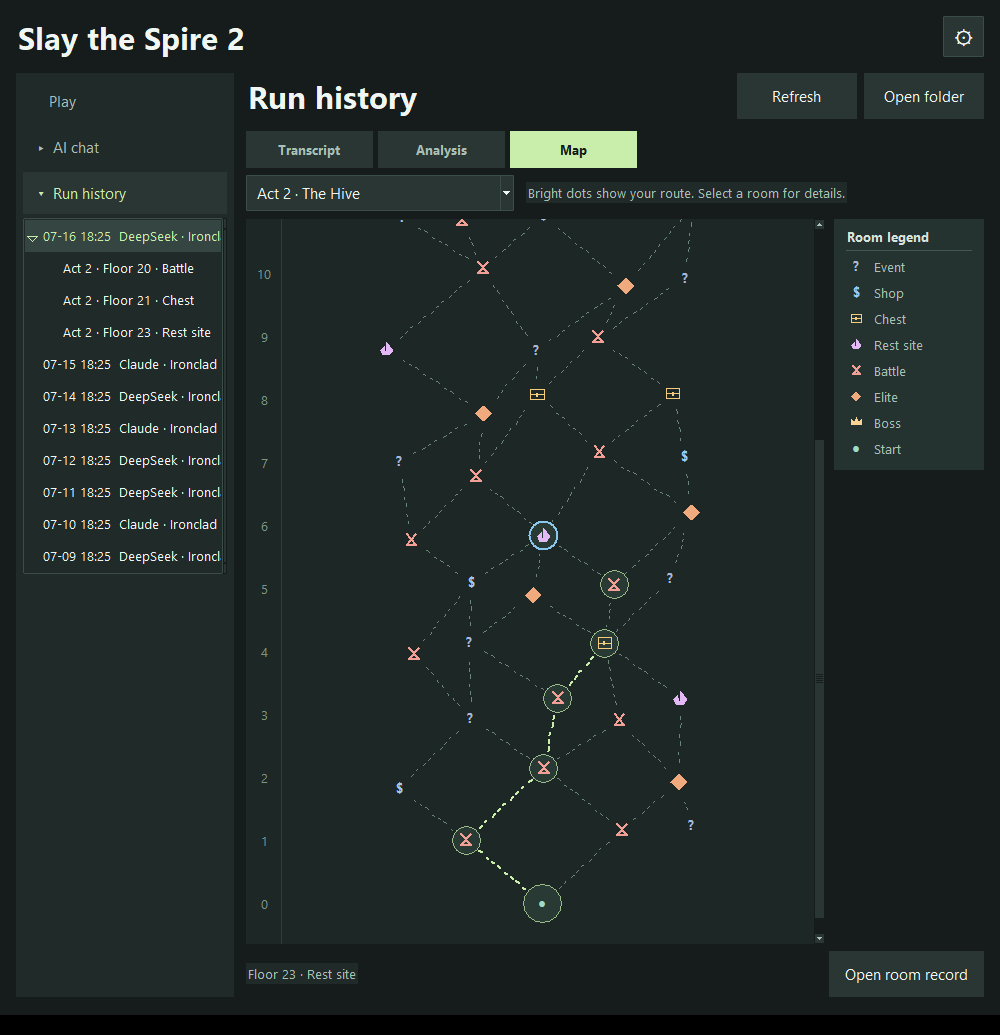
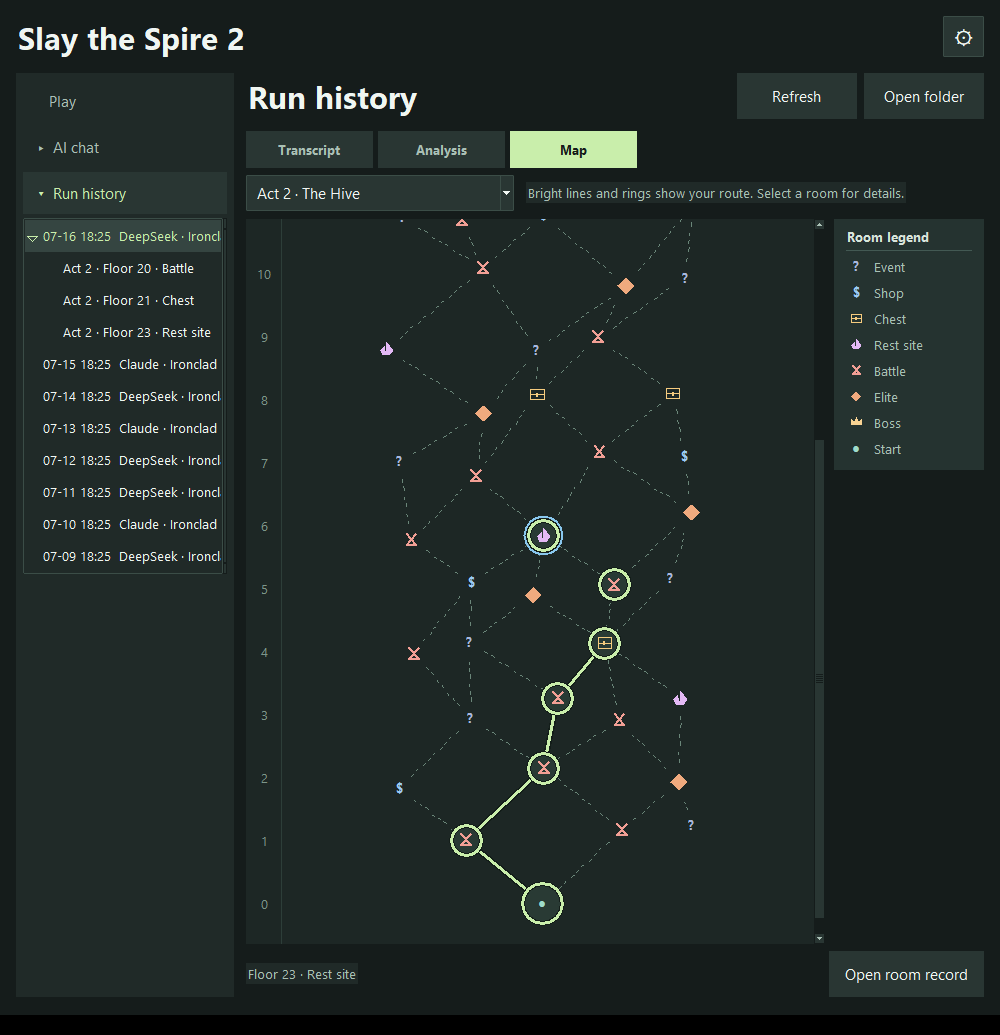
Emphasize traveled paths and ring visited rooms

diff --git a/python/run_map.py b/python/run_map.py
@@ -14,6 +14,8 @@ COLORS = {"battle": "#F29F95", "elite": "#F0AA7E", "boss": "#F8D393", "chest": "
 LEGEND_ROOMS = ("event", "shop", "chest", "rest", "battle", "elite", "boss", "start")
 MAP_BACKGROUND = "#1D2725"
 NODE_SIZES = {"elite": 25, "boss": 48, "start": 30}
+VISITED = "#C9EEAB"
+ROUTE_OUTLINE = "#131D19"
 
 
 class Chapter(NamedTuple):
@@ -304,12 +306,17 @@ class RunMap:
             x, y = positions[point]
             tag = f"room_{point[0]}_{point[1]}"
             edge = NODE_SIZES.get(room, 20)
-            radius = edge / 2 + 4
+            radius = edge / 2 + 5
             selected = self.selected == point
-            ring = "#89C7EE" if current == point else "#F8D393" if selected else "#9ABC8B" if reached else ""
-            view.create_oval(x-radius, y-radius, x+radius, y+radius, outline=ring,
-                             fill="#293A34" if reached or selected else MAP_BACKGROUND,
-                             width=2 if current == point or selected else 1, tags=tag)
+            circle = x-radius, y-radius, x+radius, y+radius
+            view.create_oval(*circle, outline=ROUTE_OUTLINE if reached else "",
+                             fill="#293A34" if reached or selected else MAP_BACKGROUND, width=5, tags=tag)
+            if reached:
+                view.create_oval(*circle, outline=VISITED, width=2.5, tags=(tag, "visited_room"))
+            if current == point or selected:
+                border = radius + 4 if reached else radius
+                view.create_oval(x-border, y-border, x+border, y+border, width=2,
+                                 outline="#89C7EE" if current == point else "#F8D393", tags=tag)
             self.icon(room, x, y, tag, edge=edge, detail=chapter.special_art.get(point))
             view.tag_bind(tag, "<Button-1>", lambda _event, point=point: self.select_node(point))
             view.tag_bind(tag, "<Enter>", lambda _event: view.configure(cursor="hand2"))
@@ -332,10 +339,14 @@ class RunMap:
         if first >= last:
             return
         ux, uy = dx / length, dy / length
+        if reached:
+            points = x + ux * first, y + uy * first, x + ux * last, y + uy * last
+            self.canvas.create_line(*points, fill=ROUTE_OUTLINE, width=6, capstyle="round")
+            self.canvas.create_line(*points, fill=VISITED, width=3, capstyle="round", tags="route")
+            return
         count = max(1, round((last - first) / 8))
         spacing = (last - first) / count
         seed = left[0] * 17 + left[1] * 5 + right[0] * 13 + right[1] * 3
-        color = "#C9EEAB" if reached else "#6A8679"
         for index in range(count):
             phase = (seed + index * 7) % 11
             start = first + index * spacing + spacing * (.15 + phase / 55)
@@ -343,8 +354,7 @@ class RunMap:
             offset = (phase - 5) * .17
             self.canvas.create_line(x + ux * start - uy * offset, y + uy * start + ux * offset,
                                     x + ux * end - uy * offset, y + uy * end + ux * offset,
-                                    fill=color, width=2 if reached else 1, capstyle="round",
-                                    tags="route" if reached else "path")
+                                    fill="#6A8679", width=1, capstyle="round", tags="path")
 
     def draw_legend(self, _event=None):
         view = self.legend

diff --git a/docs/desktop-launcher.md b/docs/desktop-launcher.md
@@ -12,7 +12,7 @@ The Fool is selectable for game builds that include that character. Mega Crit in
 - In **AI play**, select a persona or open **Persona panel** to choose its provider, model, game character, ascension, and speaking style. Choose a 20-step trial to check provider setup and usage. If prompted to install the provider's API client, let installation finish, then start again.
 - Turn on commentary to let the model add optional comments to its action responses. **AI chat** shows these comments as they arrive. Changing how a persona speaks applies on the next decision. Changing its model or game settings applies on the next run.
 - **Run history** opens the transcript and analysis for each run. Runs are grouped by floor and encounter in the local `STS2 Runs/` directory. The win-rate estimate uses earlier completed runs with the same model, character, and ascension that reached the current stage. Matching sample counts appear beside the estimate.
-- **Map** shows each archived act with dashed room connections, a highlighted route, and a room legend. Select a room and choose **Open room record** to read its transcript. Older archives can show visited rooms only. **Analysis** shows the latest character state and uses icons from the local Steam game for HP, gold, block, potions, and combat energy when those values have been recorded. Use **Character wiki** for the character reference and **About** for credits.
+- **Map** shows each archived act with dashed branches, solid bright lines for the traveled route, and rings around visited rooms. Select a room and choose **Open room record** to read its transcript. Older archives can show visited rooms only. **Analysis** shows the latest character state and uses icons from the local Steam game for HP, gold, block, potions, and combat energy when those values have been recorded. Use **Character wiki** for the character reference and **About** for credits.
 - Expand **Deck** and **Relics** below the character in **Analysis** to see the latest inventory. Deck badges reflect pool, type, and rarity. Available [Huiji Wiki badges](https://sts2.huijiwiki.com/wiki/%E5%8D%A1%E7%89%8C%E5%AF%BC%E8%88%AA) are cached as you open a deck. Offline decks can still use the built-in badges.
 - **Save folder** in the gear menu finds a local or Steam save folder and accepts a custom path. Continuing a native `.save` can update it. Open a copy in a separate folder to keep a checkpoint.
 
@@ -30,7 +30,7 @@ The launcher sends current game state to the selected provider when requesting a
 - 在 **AI 游玩** 中选择人物。人物面板可配置模型、游戏角色、进阶、试跑和发言语言。可以先用 20 步试跑确认服务商设置和用量。首次使用若提示安装 API 客户端，等待完成后再开局。
 - 开启表达后，模型可自行决定是否发言，内容会出现在左栏的 **AI 对话**。发言设置在下一次决策生效，模型或游戏设置在下一次开局生效。
 - **对局记录** 按楼层和房间保存到本地 `STS2 Runs/`。分析页用同模型、角色和进阶的历史完赛局在相应进度上的结果来估算，并显示样本数。
-- **地图** 可切换章节，虚线显示房间分岔，高亮显示已走路线。选中房间后可打开对应记录。较早的归档可能只保存了到访房间。**分析** 用本机 Steam 图标标注已记录的血量、金币、格挡、药水和战斗能量。角色卡带有 Wiki 入口，图像和项目来源见齿轮菜单里的 **关于**。
+- **地图** 可切换章节，虚线显示房间分岔，亮实线标出走过的路，圆圈标出已到访房间。选中房间后可打开对应记录。较早的归档可能只保存了到访房间。**分析** 用本机 Steam 图标标注已记录的血量、金币、格挡、药水和战斗能量。角色卡带有 Wiki 入口，图像和项目来源见齿轮菜单里的 **关于**。
 - 在 **分析** 的角色卡下方展开 **牌组** 和 **遗物**，即可查看最近记录的清单和数量。牌组小图按牌池、类型和稀有度区分，展开时获取并缓存可用的[灰机 Wiki 小图](https://sts2.huijiwiki.com/wiki/%E5%8D%A1%E7%89%8C%E5%AF%BC%E8%88%AA)。离线时仍可使用内置小图。
 - 齿轮里的 **存档目录** 会自动查找项目或 Steam 存档目录，也可手动更换。继续原生 `.save` 时，游戏可能写回该文件。需要保留原进度时，可从单独目录打开副本。
 

diff --git a/README.md b/README.md
@@ -21,7 +21,7 @@ The ZIP includes Python and .NET. Manual play needs no API key. For AI play, sav
 - **Personas and languages.** Save a model, speaking style, and output language per persona. The interface and AI commentary each offer 17 languages and can be set independently.
 - **Local saves.** Detect or set a save folder from the gear menu, then select a save on the launch page.
 - **AI chat and run history.** Expand either view from the sidebar. Each run has its own archive, with separate folders for encounters, chests, rest sites, and other rooms.
-- **Run maps.** Switch between runs and acts. The scrollable map follows the engine's room connections, with dashed branches, a highlighted route, and a room legend. Select a visited room to open its record.
+- **Run maps.** Switch between runs and acts. The scrollable map follows the engine's room connections. Bold lines trace the traveled route and bright rings mark visited rooms. Select a visited room to open its record.
 - **Game icons.** Room, character, and status icons are read from your Steam install. Deck badges vary by card pool, rarity, and type. Opening the deck fetches and caches available [Huiji Wiki card badges](https://sts2.huijiwiki.com/wiki/%E5%8D%A1%E7%89%8C%E5%AF%BC%E8%88%AA). Built-in symbols are available offline.
 - **Character and run analysis.** The top panel shows the portrait, HP, recent health changes, gold, block, potions, and combat energy when recorded. Expand Deck or Relics to see their icons and quantities. Historical charts appear below.
 
